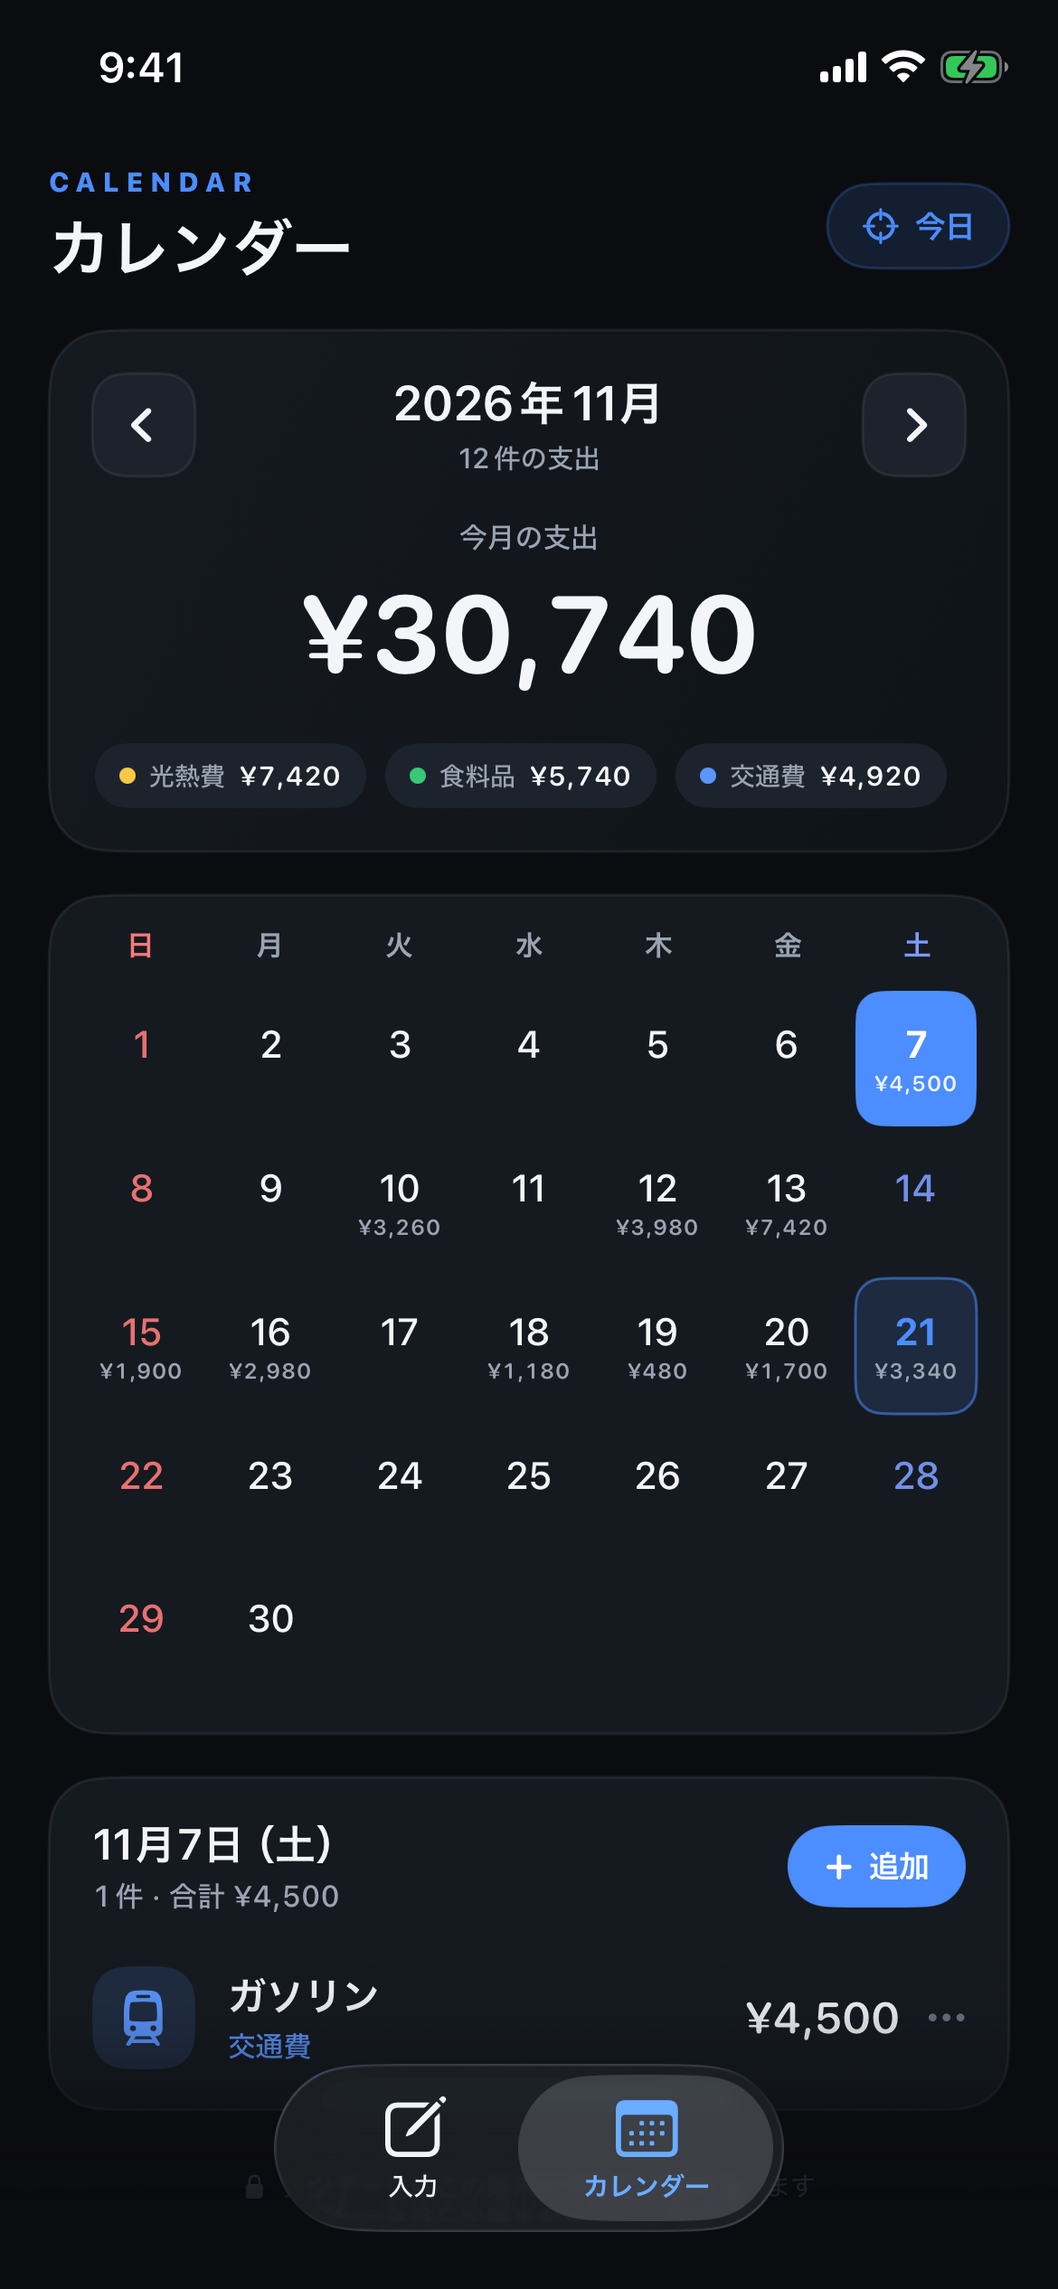
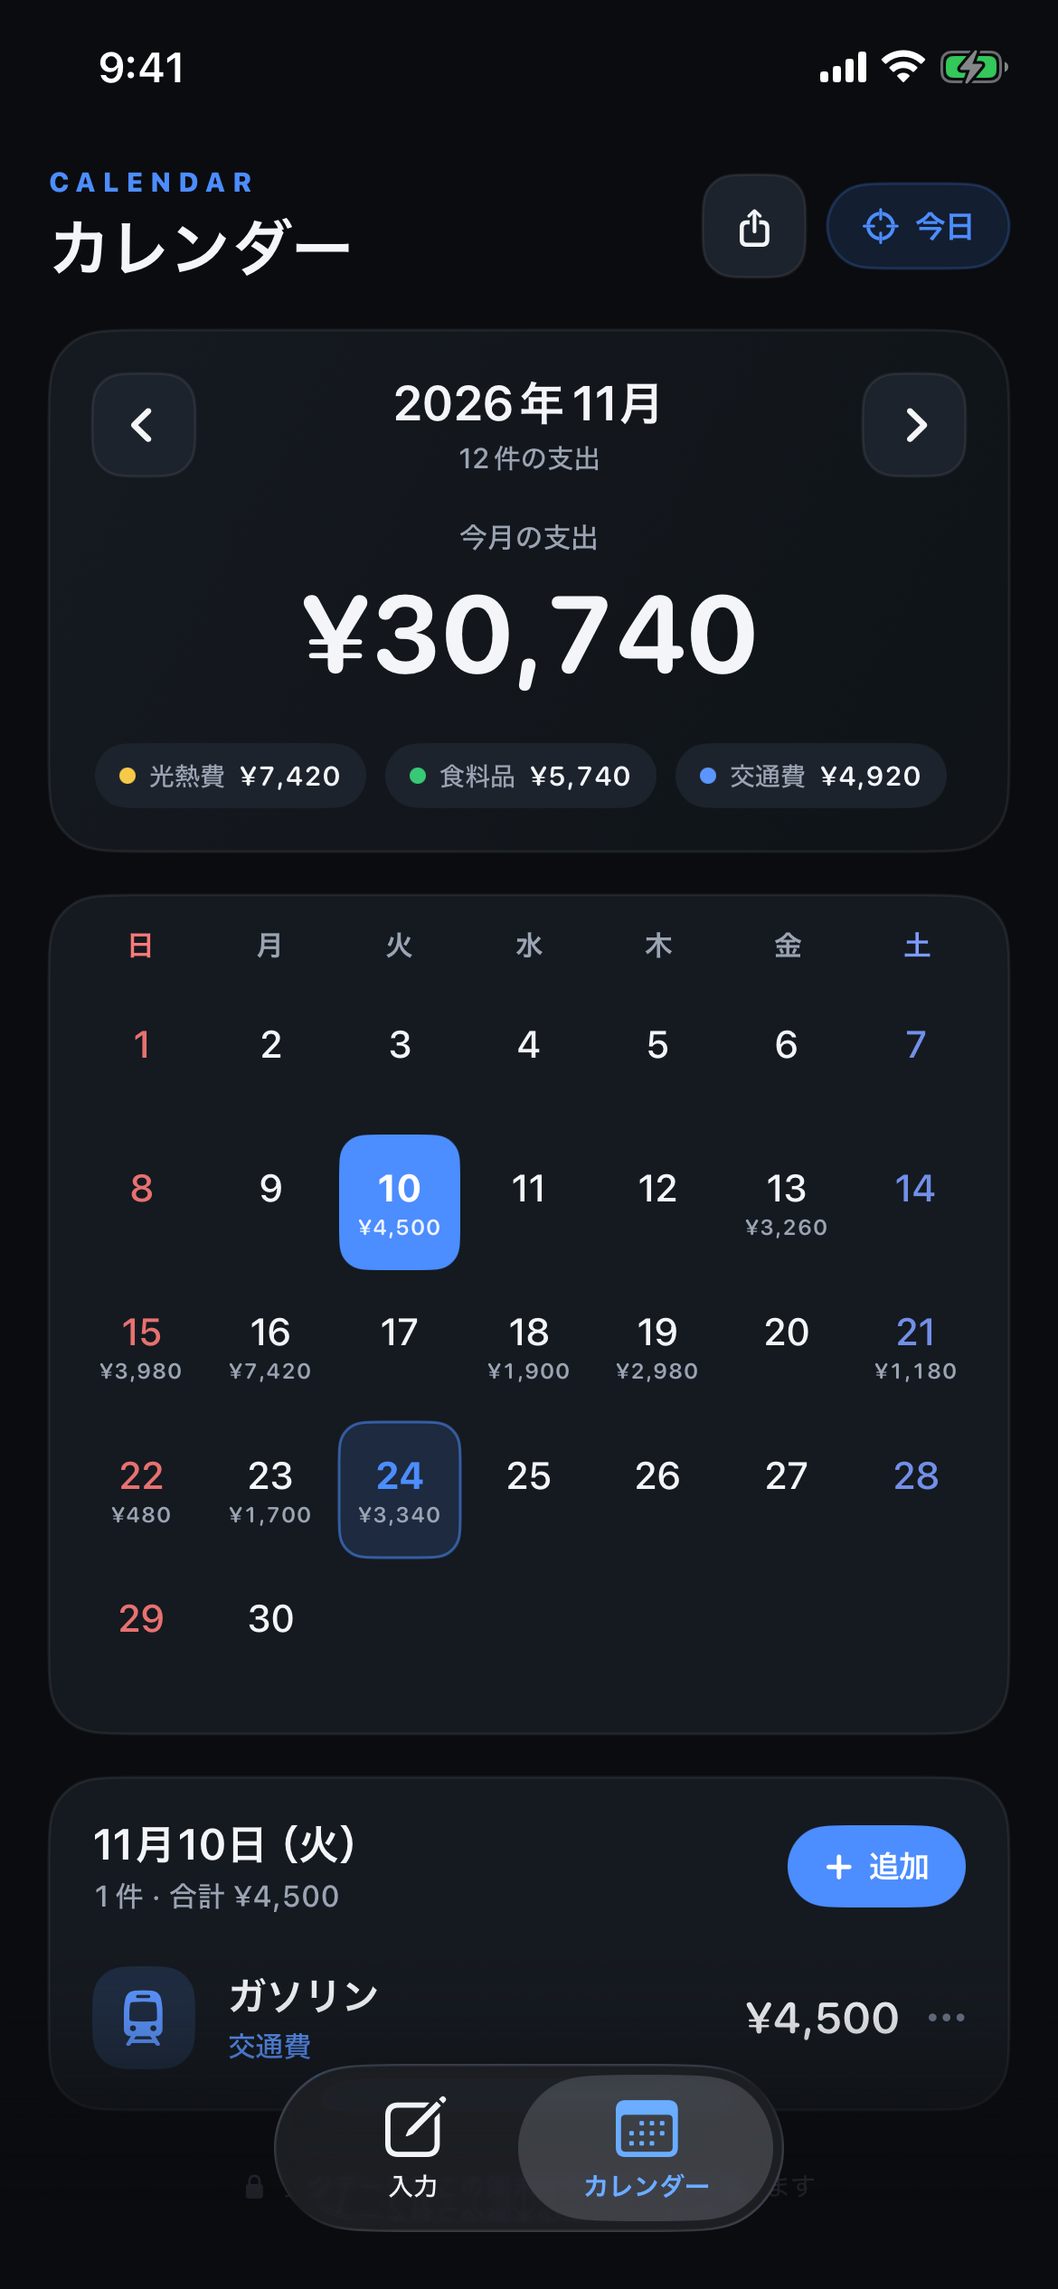
CSVエクスポート（バックアップ）機能を追加
カレンダー画面の共有ボタンから全支出をCSVで書き出せるようにした。
UTF-8 BOM付きでExcel/Numbersでも日本語が正しく開き、
カンマ・ダブルクォート・改行を含む項目もRFC 4180に従ってエスケープする。

- ExpenseCSVExporter: CSV生成（日付昇順・出力は日付/項目名/金額/カテゴリ/
  メモ/店舗名/数量/単価/登録・更新日時）と一時ファイル書き出し
- ShareSheet: UIActivityViewControllerのSwiftUIラッパー
- AppModel.makeExportFileURL(): 書き出しとエラー処理
- カレンダーヘッダーに書き出しボタン（支出ゼロ時は無効）
- ユニットテスト8件追加（全61件+UI 6件合格）

背景: 実機のデータ表示に関する報告を調査した結果、データは正常に保存されて
いたが、入力画面が当日分のみ表示する設計のため前日の支出が分かりにくいと
いうことが判明。アプリ削除時にデータが失われる運用リスクへの対策として
バックアップ手段を追加した。

diff --git a/KakeiNoteTests/ExpenseCSVExporterTests.swift b/KakeiNoteTests/ExpenseCSVExporterTests.swift
@@ -1,0 +1,165 @@
+import XCTest
+@testable import KakeiNote
+
+final class ExpenseCSVExporterTests: XCTestCase {
+    private func expense(
+        year: Int,
+        month: Int,
+        day: Int,
+        hour: Int = 12,
+        title: String,
+        amount: Int,
+        category: ExpenseCategory,
+        memo: String = "",
+        merchantName: String? = nil,
+        quantity: Int = 1,
+        unitPrice: Int? = nil
+    ) -> Expense {
+        var components = DateComponents()
+        components.year = year
+        components.month = month
+        components.day = day
+        components.hour = hour
+        let date = KakeiCalendar.calendar.date(from: components)!
+        return Expense(
+            date: date,
+            title: title,
+            amount: amount,
+            category: category,
+            memo: memo,
+            merchantName: merchantName,
+            quantity: quantity,
+            unitPrice: unitPrice,
+            createdAt: date,
+            updatedAt: date
+        )
+    }
+
+    /// BOM と終端改行を除いた行配列（テスト用ヘルパー）。
+    private func csvLines(_ csv: String) -> [String] {
+        let withoutBOM = csv.hasPrefix(ExpenseCSVExporter.byteOrderMark)
+            ? String(csv.dropFirst(ExpenseCSVExporter.byteOrderMark.count))
+            : csv
+        return withoutBOM
+            .replacingOccurrences(of: "\r\n", with: "\n")
+            .trimmingCharacters(in: .newlines)
+            .components(separatedBy: .newlines)
+    }
+
+    func testHeaderAndRows() {
+        let csv = ExpenseCSVExporter.makeCSV([
+            expense(year: 2026, month: 11, day: 23, title: "本　2冊　アピタ", amount: 1375, category: .other),
+            expense(year: 2026, month: 11, day: 21, title: "牛乳", amount: 198, category: .food, memo: "スーパー", quantity: 1)
+        ])
+
+        let lines = csvLines(csv)
+
+        XCTAssertEqual(lines[0], "日付,項目名,金額,カテゴリ,メモ,店舗名,数量,単価,登録日時,更新日時")
+        // 日付の昇順に並ぶこと
+        XCTAssertTrue(lines[1].hasPrefix("2026-11-21,牛乳,198,食料品,スーパー,,1,"))
+        XCTAssertTrue(lines[2].hasPrefix("2026-11-23,本　2冊　アピタ,1375,その他,,,1,"))
+        XCTAssertEqual(lines.count, 3)
+    }
+
+    func testBOMForExcel() {
+        let csv = ExpenseCSVExporter.makeCSV([])
+        XCTAssertTrue(csv.hasPrefix(ExpenseCSVExporter.byteOrderMark))
+        // Excel が UTF-8 と判定できること（バイト先頭が EF BB BF）
+        XCTAssertEqual(Array(csv.utf8.prefix(3)), [0xEF, 0xBB, 0xBF])
+    }
+
+    func testEmptyExpensesProduceHeaderOnly() {
+        let csv = ExpenseCSVExporter.makeCSV([])
+        let lines = csvLines(csv)
+        XCTAssertEqual(lines.count, 1)
+        XCTAssertEqual(lines[0], ExpenseCSVExporter.headerFields.joined(separator: ","))
+    }
+
+    func testEscapingCommaQuoteAndNewline() {
+        XCTAssertEqual(ExpenseCSVExporter.escape("お茶,緑茶"), "\"お茶,緑茶\"")
+        XCTAssertEqual(ExpenseCSVExporter.escape("5\"棚"), "\"5\"\"棚\"")
+        XCTAssertEqual(ExpenseCSVExporter.escape("1行目\n2行目"), "\"1行目\n2行目\"")
+        XCTAssertEqual(ExpenseCSVExporter.escape("通常の項目"), "通常の項目")
+        // メモに改行が入っていても、クォートされた 1 フィールドとして出力されること
+        let csv = ExpenseCSVExporter.makeCSV([
+            expense(year: 2026, month: 11, day: 23, title: "コーヒー", amount: 480, category: .dining, memo: "1杯目\n2杯目")
+        ])
+        XCTAssertTrue(csv.contains(",\"1杯目\n2杯目\","))
+
+        // 項目名にカンマが入っていてもエスケープされること
+        let commaCSV = ExpenseCSVExporter.makeCSV([
+            expense(year: 2026, month: 11, day: 23, title: "お茶,緑茶", amount: 300, category: .food)
+        ])
+        XCTAssertTrue(commaCSV.contains("\"お茶,緑茶\""))
+    }
+
+    func testOptionalFieldsAndTimestamps() {
+        let csv = ExpenseCSVExporter.makeCSV([
+            expense(year: 2026, month: 11, day: 20, hour: 9, title: "卵", amount: 248, category: .food, merchantName: "スーパーABC", quantity: 2, unitPrice: 124)
+        ])
+        let line = csv
+            .replacingOccurrences(of: "\r\n", with: "\n")
+            .trimmingCharacters(in: .newlines)
+            .components(separatedBy: .newlines)[1]
+
+        let fields = line.components(separatedBy: ",")
+        XCTAssertEqual(fields[0], "2026-11-20")
+        XCTAssertEqual(fields[1], "卵")
+        XCTAssertEqual(fields[2], "248")
+        XCTAssertEqual(fields[3], "食料品")
+        XCTAssertEqual(fields[4], "")
+        XCTAssertEqual(fields[5], "スーパーABC")
+        XCTAssertEqual(fields[6], "2")
+        XCTAssertEqual(fields[7], "124")
+        XCTAssertEqual(fields[8], "2026-11-20 09:00:00")
+        XCTAssertEqual(fields[9], "2026-11-20 09:00:00")
+    }
+
+    func testWriteTemporaryFile() throws {
+        let csv = ExpenseCSVExporter.makeCSV([
+            expense(year: 2026, month: 11, day: 23, title: "テスト", amount: 100, category: .other)
+        ])
+        let date = KakeiCalendar.date(year: 2026, month: 11, day: 24)!
+        let url = try ExpenseCSVExporter.writeTemporaryFile(csv: csv, date: date)
+
+        XCTAssertEqual(url.lastPathComponent, "KakeiNote-支出一覧-2026-11-24.csv")
+        // String(contentsOf:) は BOM を除去するため、バイト列で比較する
+        XCTAssertEqual(try Data(contentsOf: url), csv.data(using: .utf8))
+
+        try? FileManager.default.removeItem(at: url)
+    }
+
+    func testFileName() {
+        XCTAssertEqual(
+            ExpenseCSVExporter.fileName(date: KakeiCalendar.date(year: 2026, month: 1, day: 9)!),
+            "KakeiNote-支出一覧-2026-01-09.csv"
+        )
+    }
+
+    @MainActor
+    func testAppModelExportProducesValidFile() throws {
+        let stack = try CoreDataStack(inMemory: true)
+        let directory = FileManager.default.temporaryDirectory
+            .appendingPathComponent("KakeiNoteExportTests-\(UUID().uuidString)", isDirectory: true)
+        try FileManager.default.createDirectory(at: directory, withIntermediateDirectories: true)
+        let model = AppModel(
+            repository: ExpenseRepository(stack: stack),
+            imageStore: ReceiptImageStore(directory: directory)
+        )
+        defer { try? FileManager.default.removeItem(at: directory) }
+
+        model.addExpense(
+            title: "本　2冊　アピタ",
+            amount: 1375,
+            category: .other,
+            date: KakeiCalendar.date(year: 2026, month: 11, day: 23)!
+        )
+
+        let url = model.makeExportFileURL()
+        XCTAssertNotNil(url)
+        let content = try String(contentsOf: url!, encoding: .utf8)
+        XCTAssertTrue(content.contains("本　2冊　アピタ"))
+        XCTAssertTrue(content.contains("1375"))
+        XCTAssertNil(model.errorMessage)
+    }
+}

diff --git a/KakeiNote/Services/ExpenseCSVExporter.swift b/KakeiNote/Services/ExpenseCSVExporter.swift
@@ -1,0 +1,83 @@
+import Foundation
+
+/// 支出データを CSV（UTF-8 BOM 付き・RFC 4180 準拠）へ書き出す。
+/// アプリの削除や機種変更に備えたバックアップ手段として、全支出を Excel 等で
+/// 開ける形式で出力する。
+enum ExpenseCSVExporter {
+    /// Excel で日本語が正しく開けるよう BOM を付ける。
+    static let byteOrderMark = "\u{FEFF}"
+
+    static let headerFields = [
+        "日付", "項目名", "金額", "カテゴリ", "メモ", "店舗名", "数量", "単価",
+        "登録日時", "更新日時",
+    ]
+
+    private static let dayFormatter: DateFormatter = {
+        let formatter = DateFormatter()
+        formatter.locale = Locale(identifier: "ja_JP")
+        formatter.calendar = KakeiCalendar.calendar
+        formatter.dateFormat = "yyyy-MM-dd"
+        return formatter
+    }()
+
+    private static let timestampFormatter: DateFormatter = {
+        let formatter = DateFormatter()
+        formatter.locale = Locale(identifier: "ja_JP")
+        formatter.calendar = KakeiCalendar.calendar
+        formatter.dateFormat = "yyyy-MM-dd HH:mm:ss"
+        return formatter
+    }()
+
+    /// 全支出を CSV 文字列へ変換する。日付の昇順（同日内は登録順）。
+    static func makeCSV(_ expenses: [Expense]) -> String {
+        var lines: [String] = [headerFields.joined(separator: ",")]
+
+        let sorted = expenses.sorted { lhs, rhs in
+            if lhs.date != rhs.date { return lhs.date < rhs.date }
+            return lhs.createdAt < rhs.createdAt
+        }
+
+        for expense in sorted {
+            let fields = [
+                dayFormatter.string(from: expense.date),
+                expense.title,
+                String(expense.amount),
+                expense.category.displayName,
+                expense.memo,
+                expense.merchantName ?? "",
+                String(expense.quantity),
+                expense.unitPrice.map(String.init) ?? "",
+                timestampFormatter.string(from: expense.createdAt),
+                timestampFormatter.string(from: expense.updatedAt),
+            ]
+            lines.append(fields.map(escape).joined(separator: ","))
+        }
+
+        // RFC 4180 準拠の改行コード
+        return byteOrderMark + lines.joined(separator: "\r\n") + "\r\n"
+    }
+
+    /// カンマ・ダブルクォート・改行を含むフィールドはクォートで囲み、
+    /// 内部のクォートは二重化する。
+    static func escape(_ field: String) -> String {
+        if field.contains(",") || field.contains("\"") ||
+            field.contains("\n") || field.contains("\r") {
+            return "\"" + field.replacingOccurrences(of: "\"", with: "\"\"") + "\""
+        }
+        return field
+    }
+
+    /// 書き出し用の一時ファイル名（例: KakeiNote-支出一覧-2026-11-24.csv）。
+    static func fileName(date: Date = Date()) -> String {
+        let stamp = dayFormatter.string(from: date)
+        return "KakeiNote-支出一覧-\(stamp).csv"
+    }
+
+    /// CSV を一時ファイルに書き出し、共有シートに渡す URL を返す。
+    static func writeTemporaryFile(csv: String, date: Date = Date()) throws -> URL {
+        let url = FileManager.default.temporaryDirectory
+            .appendingPathComponent(fileName(date: date))
+        try csv.data(using: .utf8)?.write(to: url, options: .atomic)
+        return url
+    }
+}

diff --git a/KakeiNote/Views/Calendar/CalendarView.swift b/KakeiNote/Views/Calendar/CalendarView.swift
@@ -8,6 +8,7 @@ struct CalendarView: View {
     @State private var editingExpense: Expense?
     @State private var showAddSheet = false
     @State private var expenseToDelete: Expense?
+    @State private var shareItem: ShareItem?
 
     private var statistics: MonthStatistics {
         model.statistics(for: month)
@@ -49,6 +50,9 @@ struct CalendarView: View {
         .sheet(isPresented: $showAddSheet) {
             ExpenseEditorView(expense: nil, defaultDate: selectedDay)
         }
+        .sheet(item: $shareItem) { item in
+            ShareSheet(items: [item.url])
+        }
         .alert("この支出を削除しますか？", isPresented: deleteBinding) {
             Button("削除", role: .destructive) {
                 if let expenseToDelete {
@@ -80,6 +84,34 @@ struct CalendarView: View {
             }
 
             Spacer()
+
+            Button {
+                if let url = model.makeExportFileURL() {
+                    shareItem = ShareItem(url: url)
+                    Haptics.selection()
+                } else {
+                    Haptics.error()
+                }
+            } label: {
+                Image(systemName: "square.and.arrow.up")
+                    .font(.system(size: 12, weight: .bold))
+                    .foregroundStyle(
+                        model.expenses.isEmpty ? Theme.textTertiary : Theme.textPrimary
+                    )
+                    .frame(width: 38, height: 38)
+                    .background(
+                        RoundedRectangle(cornerRadius: 12, style: .continuous)
+                            .fill(Theme.surfaceHigh)
+                    )
+                    .overlay(
+                        RoundedRectangle(cornerRadius: 12, style: .continuous)
+                            .stroke(Theme.stroke, lineWidth: 1)
+                    )
+            }
+            .buttonStyle(PressableButtonStyle())
+            .disabled(model.expenses.isEmpty)
+            .accessibilityLabel("CSVで書き出す")
+            .accessibilityIdentifier("calendar.exportButton")
 
             Button {
                 withAnimation(.easeInOut(duration: 0.22)) {
@@ -414,6 +446,12 @@ struct CalendarView: View {
 }
 
 // MARK: - 日付セル
+
+/// CSV 書き出しファイルを共有シートへ渡すための識別子付きラッパー。
+private struct ShareItem: Identifiable {
+    let id = UUID()
+    let url: URL
+}
 
 private struct CalendarDayCell: View {
     let date: Date

diff --git a/KakeiNote/ViewModels/AppModel.swift b/KakeiNote/ViewModels/AppModel.swift
@@ -279,6 +279,21 @@ final class AppModel: ObservableObject {
         imageStore.delete(named: name)
     }
 
+    // MARK: - CSV 書き出し（バックアップ）
+
+    /// 全支出を CSV に書き出し、共有用の一時ファイル URL を返す。
+    /// 失敗した場合はエラーを表示して nil を返す。
+    @discardableResult
+    func makeExportFileURL() -> URL? {
+        let csv = ExpenseCSVExporter.makeCSV(expenses)
+        do {
+            return try ExpenseCSVExporter.writeTemporaryFile(csv: csv)
+        } catch {
+            present(error, prefix: "CSVの書き出しに失敗しました")
+            return nil
+        }
+    }
+
     // MARK: - 通知
 
     func showToast(

diff --git a/KakeiNote/Views/Components/ShareSheet.swift b/KakeiNote/Views/Components/ShareSheet.swift
@@ -1,0 +1,14 @@
+import SwiftUI
+import UIKit
+
+/// UIActivityViewController を SwiftUI から使うための橋渡し。
+/// CSV 書き出しファイルを「ファイルに保存」「AirDrop」「メッセージ」などへ渡す。
+struct ShareSheet: UIViewControllerRepresentable {
+    let items: [Any]
+
+    func makeUIViewController(context: Context) -> UIActivityViewController {
+        UIActivityViewController(activityItems: items, applicationActivities: nil)
+    }
+
+    func updateUIViewController(_ uiViewController: UIActivityViewController, context: Context) {}
+}

diff --git a/README.md b/README.md
@@ -41,6 +41,13 @@ GLM-5.3で生成
 - その場で追加・編集・削除が可能。操作後は合計が即時更新
 - 月をまたぐ移動、未来の月の閲覧にも対応
 
+### CSV 書き出し（バックアップ）
+- カレンダー画面の共有ボタンから全支出を CSV で書き出し
+- UTF-8 BOM 付きなので Excel や Numbers で日本語がそのまま開ける
+- 「ファイルに保存」「AirDrop」「メッセージ」などに渡せる
+- 出力項目：日付・項目名・金額・カテゴリ・メモ・店舗名・数量・単価・登録/更新日時
+- アプリの削除や機種変更に備えた、手軽なバックアップ手段
+
 ### カテゴリ
 食料品 / 日用品 / 外食 / 交通費 / 医療・薬 / 衣類 / 娯楽 / 光熱費 / 通信費 / その他
 
@@ -97,7 +104,7 @@ xcrun devicectl device process launch --device <UDID> com.hiroyuki.KakeiNote
 ## テスト
 
 ```bash
-# ユニットテスト（53 件）
+# ユニットテスト（61 件）
 xcodebuild test -project KakeiNote.xcodeproj -scheme KakeiNote \
   -destination 'platform=iOS Simulator,name=iPhone 12,OS=26.5' \
   -only-testing:KakeiNoteTests CODE_SIGNING_ALLOWED=NO
@@ -130,7 +137,8 @@ KakeiNote/
 ├── Services/
 │   ├── ReceiptOCRService.swift # Vision OCR と画像前処理
 │   ├── ReceiptParser.swift     # 日本語レシートの解析ヒューリスティクス
-│   └── CategoryClassifier.swift# キーワードによるカテゴリ分類
+│   ├── CategoryClassifier.swift# キーワードによるカテゴリ分類
+│   └── ExpenseCSVExporter.swift# CSV 書き出し（バックアップ）
 ├── Utilities/
 │   ├── CalendarSupport.swift   # 日付境界・月間集計
 │   └── Formatters.swift        # 金額・日付の表示
@@ -159,7 +167,7 @@ KakeiNote/
 - 実機（iPhone 12 / iOS 27.2）でのビルド・インストール・起動は確認済みです。カメラ撮影と初回許諾ダイアログは端末上で確認してください。なお無料プロファイルで署名しているため、アプリは約7日で失効します（Xcode から再ビルドで延長）。
 - 手書きレシート、複数税率が混在する複雑なレシート、極端に傾いた写真では読み取り精度が下がります。確認画面で修正するか、合計 1 件登録／手入力に切り替えられます。
 - レシートの税額行は商品明細に自動配分しません。合計と差額がある場合は「調整」明細として追加できます。
-- データのエクスポート／バックアップ機能はありません（端末内保存のみ）。
+- データの自動バックアップはありません。アプリを削除するとデータも消えるため、定期的に CSV 書き出しでバックアップしてください。
 - 動作確認は iOS 26.5 シミュレータと iOS 27.2 実機で行っています。iOS 16 の実機での表示確認は未実施です。
 
 ## 開発レポート
